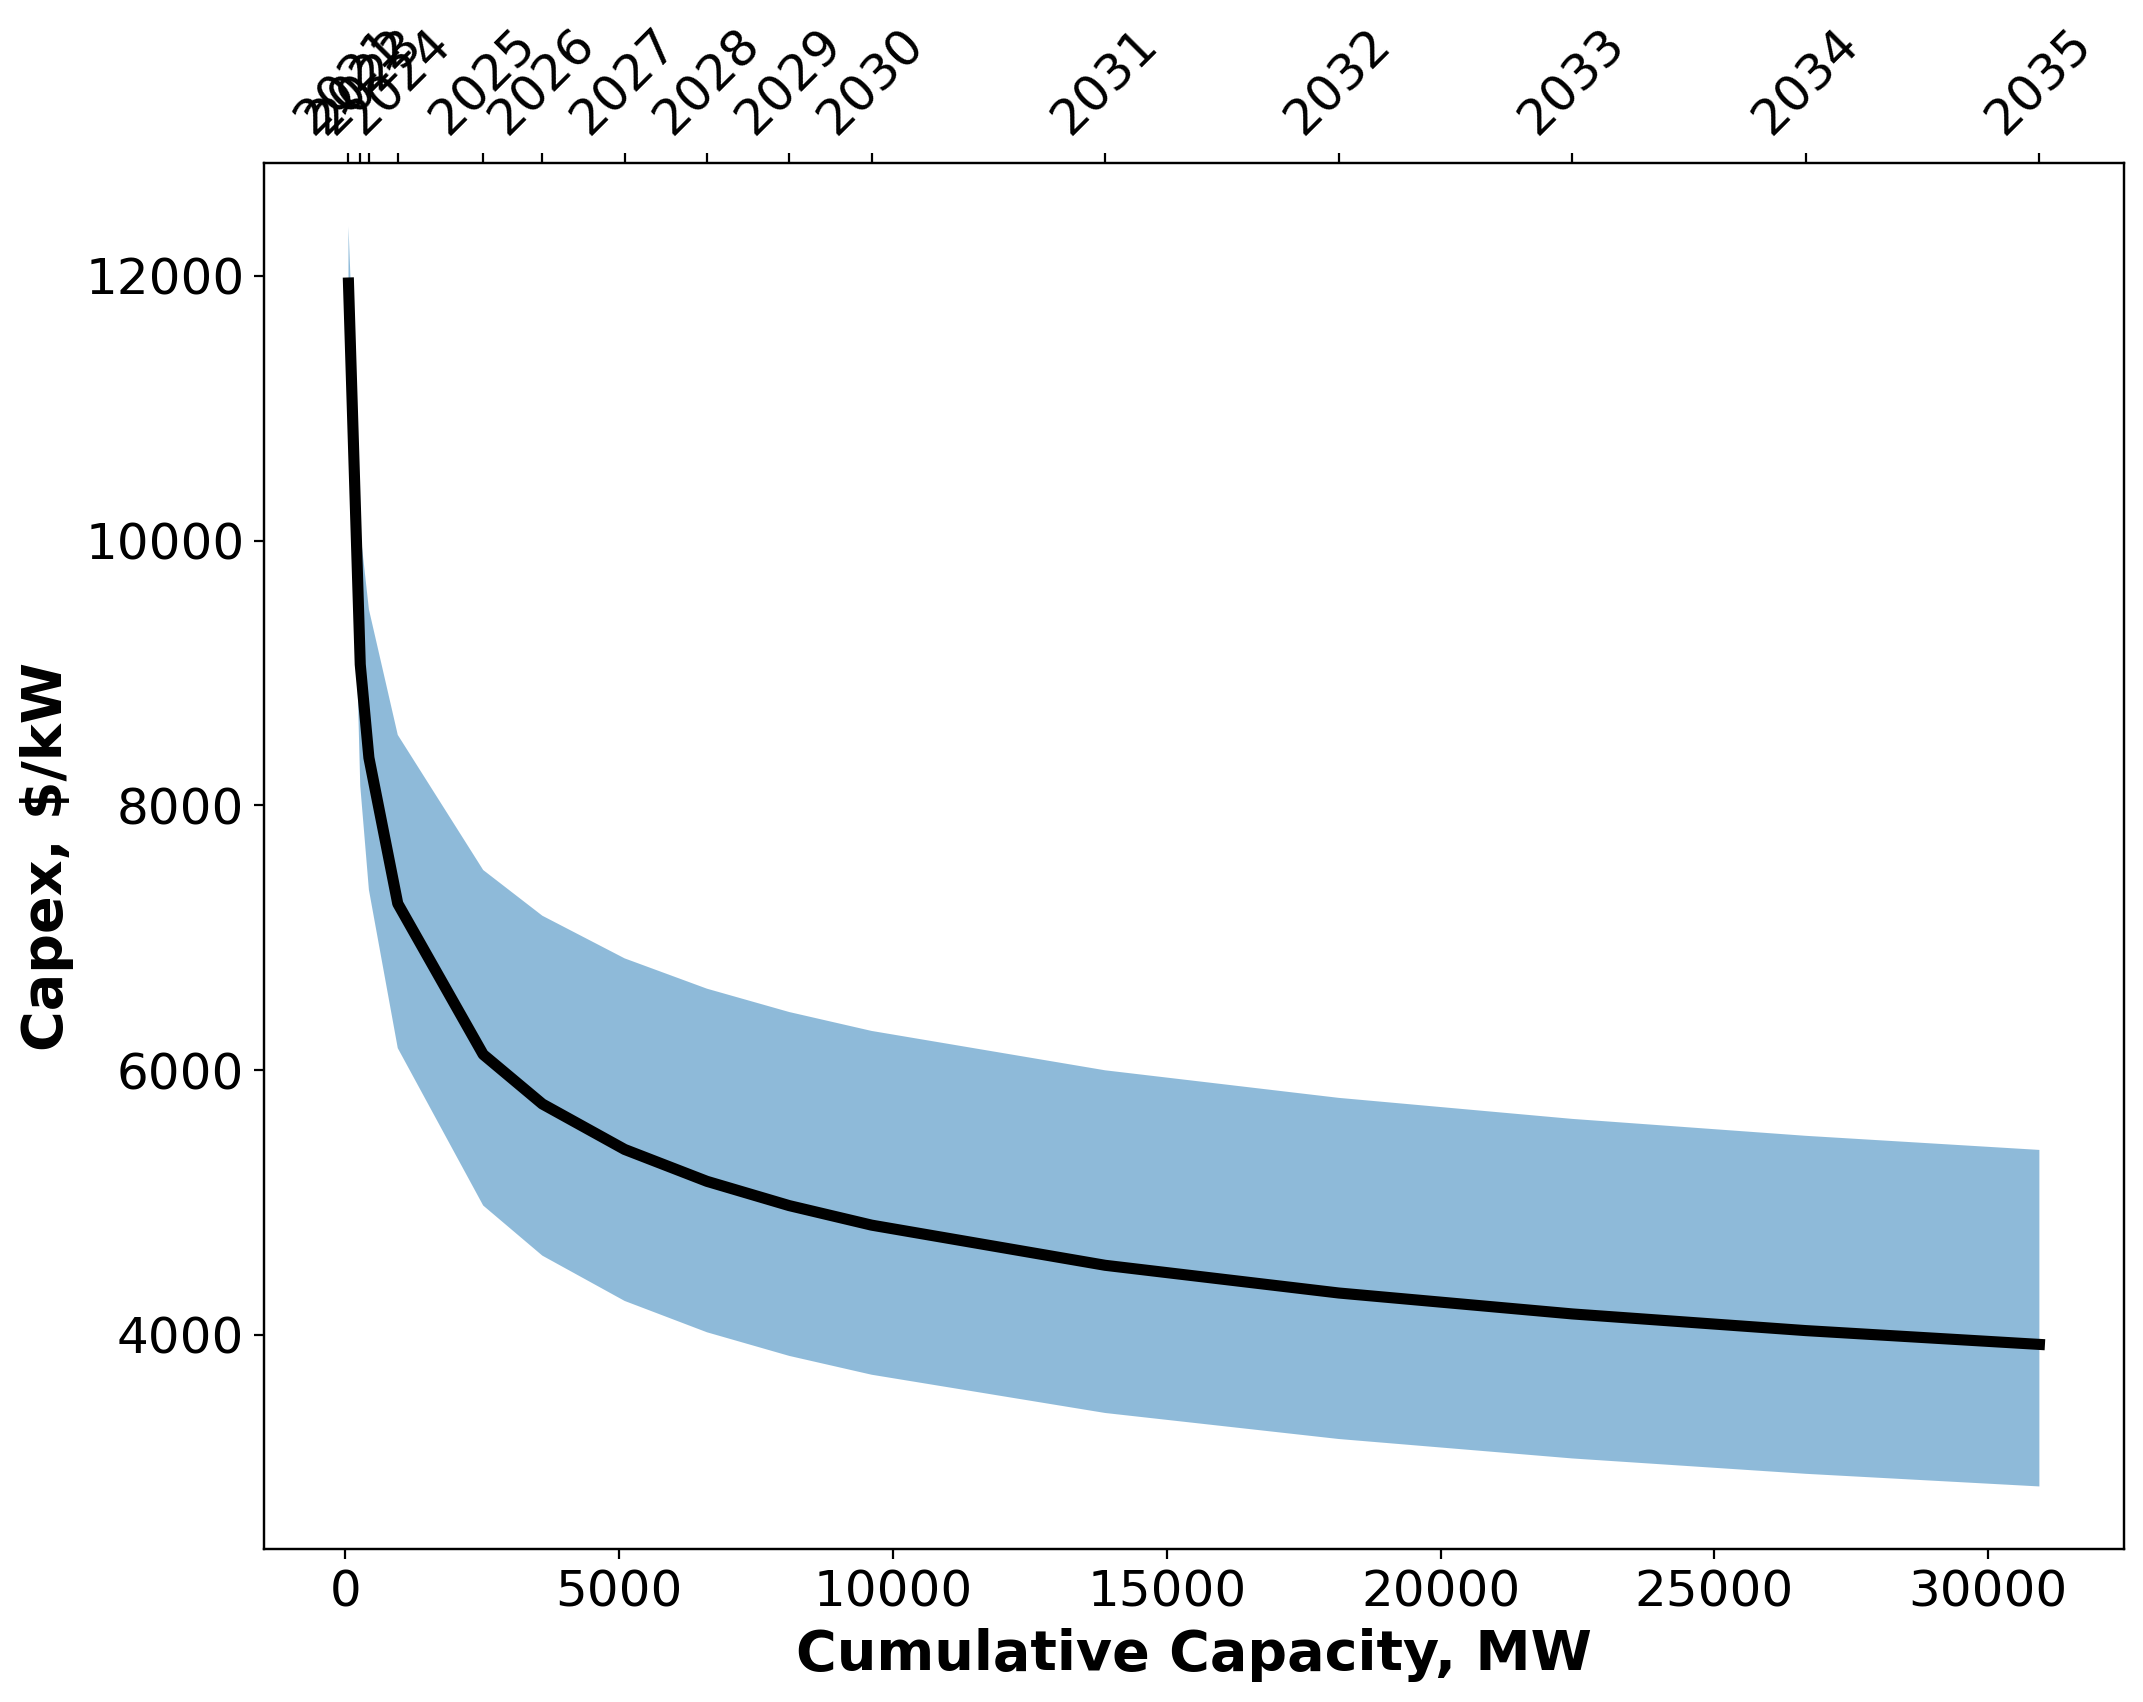
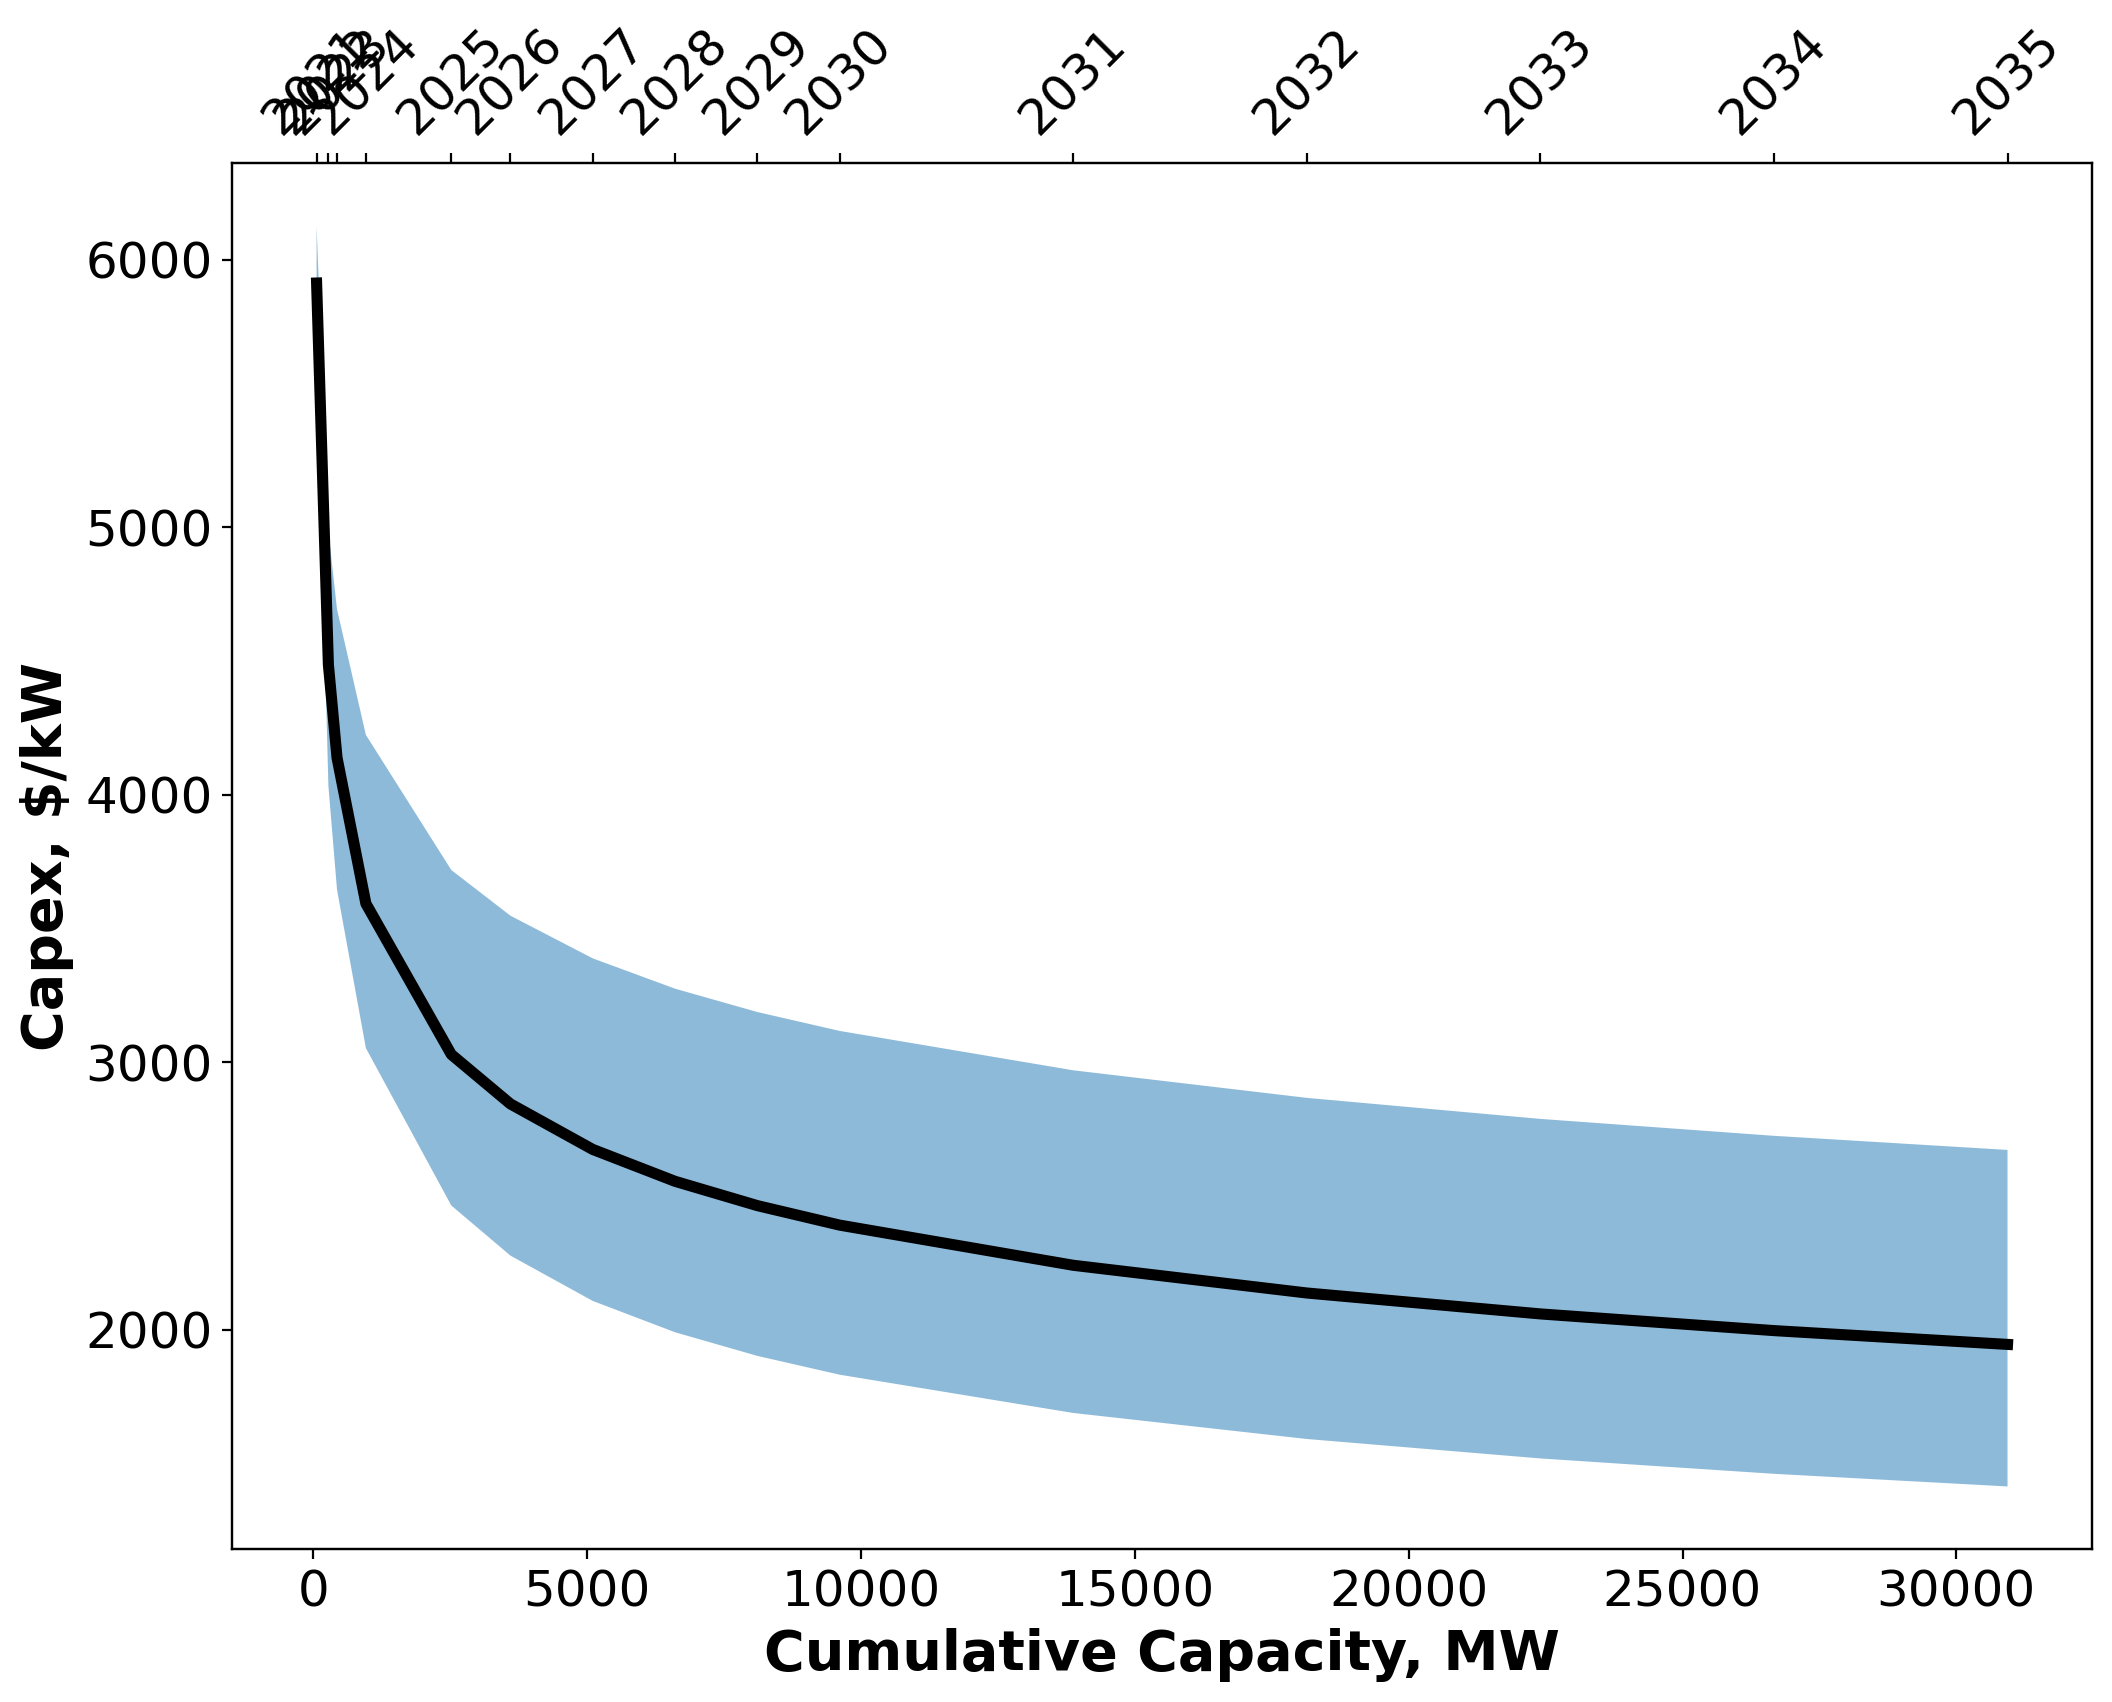
Updated Opex, FCR for floating sites.  Added FCR calculator.

diff --git a/analysis/orbit_comparison.py b/analysis/orbit_comparison.py
@@ -38,7 +38,7 @@ plot_deployment(list(FORECAST_FIXED.keys()), list(FORECAST_FIXED.values()),
                 )
 
 ## Scaling factor for demonstration-scale floating capex
-FLOATING_DEMO_SCALE = 3.03
+FLOATING_DEMO_SCALE = 1.5  # Update to match BNEF
 FLOATING_CAPACITY_2020 = 91   # Cumulative capacity as of previous year.  From OWMR.
 
 ## Regression Settings
@@ -336,6 +336,7 @@ def regression_and_plot(FORECAST, PROJECTS, FILTERS, TO_AGGREGATE, TO_DROP, PRED
     # ORBIT Results
     combined_outputs = run_orbit_configs(ORBIT_SITES, b0, upcoming_capacity, years,
                                          opex_scale, ncf_scale, fixfloat=fixfloat)
+    print(combined_outputs)
     initial_capex_range = combined_outputs.loc[2021, 'ORBIT'].values
     avg_start = pd.pivot_table(combined_outputs.reset_index(), values='ORBIT', index='index').iloc[0].values[0]
     std_start =  \
@@ -376,6 +377,13 @@ def regression_and_plot(FORECAST, PROJECTS, FILTERS, TO_AGGREGATE, TO_DROP, PRED
     # print('Max cons', max_capex_conservative)
     # print('Min agg', min_capex_aggressive)
 
+    # Opex, NCF, FCR
+    avg_opex = np.array(pd.pivot_table(combined_outputs.reset_index(),
+                            values='OpEx', index='index').loc[:, 'OpEx'])
+    avg_aep = np.array(pd.pivot_table(combined_outputs.reset_index(),
+                            values='AEP', index='index').loc[:, 'AEP'])
+    avg_fcr = np.array(pd.pivot_table(combined_outputs.reset_index(),
+                            values='FCR', index='index').loc[:, 'FCR'])
     # LCOE
     avg_lcoe = np.array(pd.pivot_table(combined_outputs.reset_index(), values='LCOE', index='index').loc[:,'LCOE'])
     max_lcoe_conservative = np.array(pd.pivot_table(combined_outputs_max_conservative.reset_index(),
@@ -392,6 +400,9 @@ def regression_and_plot(FORECAST, PROJECTS, FILTERS, TO_AGGREGATE, TO_DROP, PRED
         'Year': years,
         'Capex': avg_capex,
         'Capex percent reductions': 1 - avg_capex / avg_capex[0],
+        'Opex': avg_opex,
+        'AEP': avg_aep,
+        'FCR': avg_fcr,
         'LCOE': avg_lcoe,
         'LCOE percent reductions': 1 - avg_lcoe/ avg_lcoe[0]
     }).to_csv('results/' + fixfloat + '_data_out.csv')
@@ -399,7 +410,7 @@ def regression_and_plot(FORECAST, PROJECTS, FILTERS, TO_AGGREGATE, TO_DROP, PRED
 
     ### Plotting
     # Forecast
-    fname_capex = 'results/' + fixfloat + '_capex_forecast_low_deploy.png'
+    fname_capex = 'results/' + fixfloat + '_capex_forecast.png'
     fig_capex, ax_capex = plot_forecast(
         upcoming_capacity,
         avg_capex,
@@ -410,7 +421,7 @@ def regression_and_plot(FORECAST, PROJECTS, FILTERS, TO_AGGREGATE, TO_DROP, PRED
         fname=fname_capex
     )
 
-    fname_lcoe = 'results/' + fixfloat + '_lcoe_forecast_low_deploy.png'
+    fname_lcoe = 'results/' + fixfloat + '_lcoe_forecast.png'
     plot_forecast(
         upcoming_capacity,
         avg_lcoe,
@@ -426,7 +437,7 @@ def regression_and_plot(FORECAST, PROJECTS, FILTERS, TO_AGGREGATE, TO_DROP, PRED
     scatter_plot(res_x, res_y, 'Fitted values (log of CapEx)', 'Residuals', fname=fname_residuals)
 
     # Sensitivities
-    fname_uncert = 'results/' + fixfloat + '_capex_forecast_low_deploy_uncertainty.png'
+    fname_uncert = 'results/' + fixfloat + '_capex_forecast_uncertainty.png'
     plot_forecast_comp(
         fig_capex,
         ax_capex,

diff --git a/analysis/FCR_calculator.py b/analysis/FCR_calculator.py
@@ -1,0 +1,72 @@
+# -*- coding: utf-8 -*-
+"""
+Calculate FCR based on ATB framework
+
+@author: mshields
+"""
+
+from __future__ import division
+import numpy as np
+
+# INPUTS
+tax_rate = 0.257    # Effective tax rate (federal + local, ATB = 25.7%)
+interest_dur_construct = 0.04  # interest rate for construction loan (NOMINAL, ATB = 3.7)
+DF = 0.685      # Debt fraction (ATB = 68.5%)
+IR = .015      # interest rate on debt (REAL, ATB = 1.5% (calculated from IR = 4% nominal))
+RROE = .10     # rate of return on equity (NOMINAl, ATB = 16%)
+i = .025       # historical inflation rate (ATB = 2.5%)
+M = 5           # number of years in accelerated depreciation schedule (ATB = 5)
+FD = np.array([.2,.32,.192,.115,.115,.0576])  # capital depreciation per year (ATB = .2, .32, 19.2, 11.5, 11.5, .0576)
+t = 30        # length of time to pay off assets (ATB = 25).  From Wiser: t = 30 in 2035
+
+#Spend schedule for calculating construction financing costs
+spend_sched = {0: 0.4,
+               1: 0.4,
+               2: 0.2,
+               3: 0.0,
+               4: 0.0,
+               5: 0.0}   # Different from report ({.2, .4, .4, 0, 0})
+
+def calc_FCR(tax_rate=tax_rate,
+             interest_dur_construct=interest_dur_construct,
+             DF = DF,
+             IR = IR,
+             RROE = RROE,
+             i = i,
+             M = M,
+             FD = FD,
+             t = t,
+             spend_sched = spend_sched,
+             WACC = False):
+
+
+    # Calculate contruction finance factor
+    ConFinFactor = 0
+    for ky, val in spend_sched.items():
+        ConFinFactor += val * (1 + (1 - tax_rate) * ((1 + interest_dur_construct) ** (ky + 0.5) - 1))
+
+    ### Project financing
+    # Weighted average cost of capital
+    if WACC:
+        WACC = WACC
+    else:
+        WACC = np.round((1 + ((1-DF)*((1+RROE)-1)) + (DF*((1+IR)*(i+1)-1)*(1-tax_rate)))/(i+1),5)   # Real WACC
+
+    # Calculate multiplier for taxes and depreciation (PVD)
+    WACC_nom = WACC*(i+1)
+    y = np.linspace(1.0,M+1,M+1)
+    f = WACC_nom**-y
+    PVD = np.sum(FD*f)
+
+    # Calculate Project Finance Factor
+    ProFinFactor = (1-tax_rate*PVD)/(1-tax_rate)
+    # Calculate Captial Recovery Factor (CRF) and Fixed Charge Rate (FCR)
+    CRF = (WACC-1)/(1 - WACC**(-t))
+    FCR = CRF*ProFinFactor
+
+    return (WACC-1), PVD, CRF, FCR
+
+### run
+if __name__ == "__main__":
+    wacc, pvd, crf, fcr = calc_FCR()
+    print(wacc, pvd, crf, fcr)
